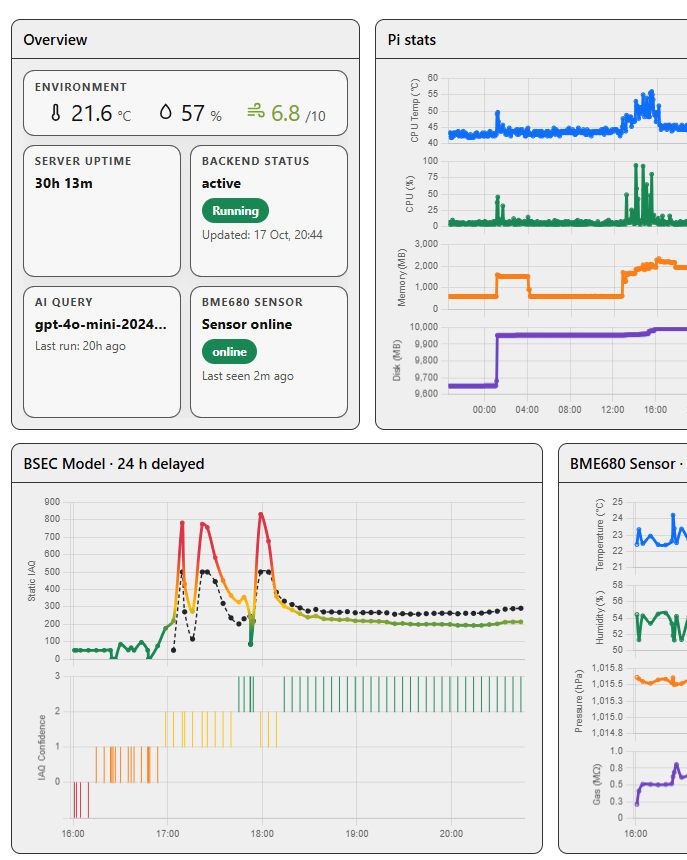
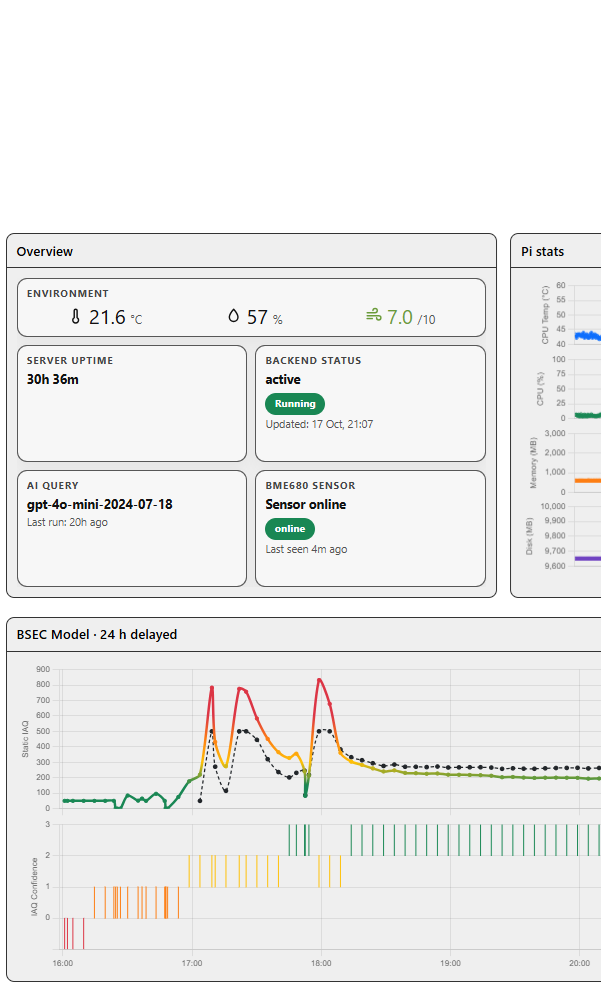
Add black card border and update 3:5 project screenshots

diff --git a/src/index.css b/src/index.css
@@ -198,7 +198,7 @@ ul {
   aspect-ratio: 3 / 5;
   overflow: hidden;
   padding: 0;
-  border: 0;
+  border: 2px solid #000000;
   border-radius: 20px;
   background-color: #4a4a4a;
   color: inherit;
